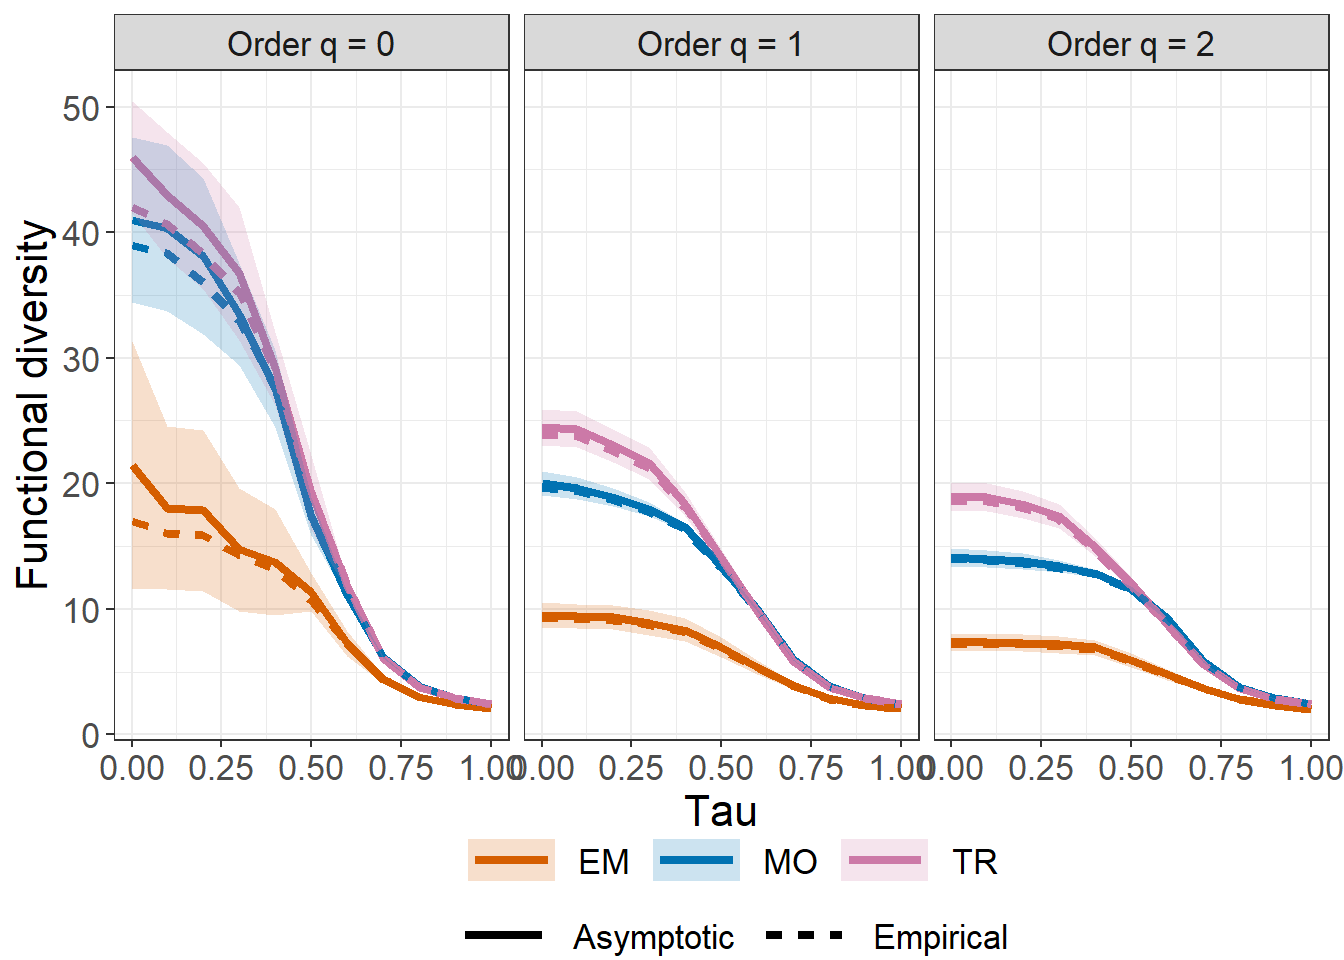
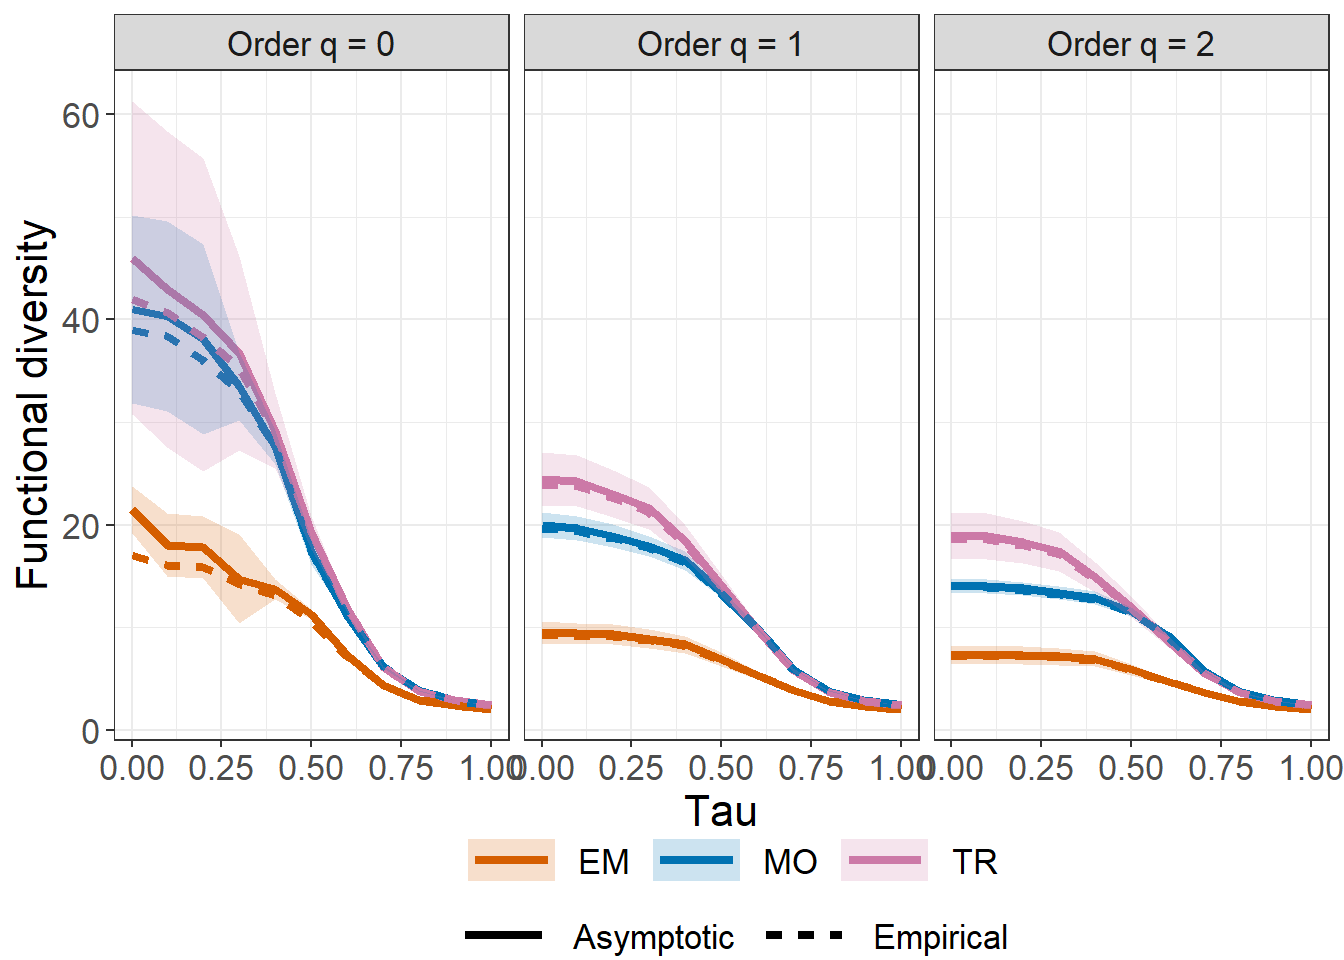
Update README.

diff --git a/README.md b/README.md
@@ -21,9 +21,10 @@ diversity) is an R package, available in
 of species diversity (Hill numbers) for three dimensions. Here we
 provide a quick introduction demonstrating how to run iNEXT.3D, and
 showing three types of sampling curves. See Chao et al. (2021) for
-methodologies. An online version of iNEXT.3D Online is also available
-for users without an R background. Detailed information about all
-functions in iNEXT.3D is provided in the iNEXT.3D Manual in
+methodologies. An online version of iNEXT.3D Online [iNEXT_3D
+Online](https://chao.shinyapps.io/iNEXT_3D/) is also available for users
+without an R background. Detailed information about all functions in
+iNEXT.3D is provided in the iNEXT.3D Manual in
 [iNEXT.3D_vignettes](http://chao.stat.nthu.edu.tw/wordpress/wp-content/uploads/software/A%20Quick%20Introduction%20to%20iNEXT.3D%20via%20Examples.html),which
 is available from [Anne Chao’s
 website](http://chao.stat.nthu.edu.tw/wordpress/software_download/).
@@ -367,16 +368,16 @@ $size_based (LCL and UCL are obtained for fixed size.)
 # A tibble: 45 x 10
    Assemblage     m Method        Order.q    qD qD.LCL qD.UCL    SC SC.LCL SC.UCL
    <chr>      <dbl> <chr>           <dbl> <dbl>  <dbl>  <dbl> <dbl>  <dbl>  <dbl>
- 1 EM             1 Rarefaction         0  1      1      1    0.136  0.125  0.147
- 2 EM           196 Rarefaction         0 15.2   13.8   16.7  0.987  0.979  0.995
- 3 EM           373 Observed            0 17     14.5   19.5  0.992  0.985  0.999
- 4 EM           550 Extrapolation       0 18.2   14.8   21.6  0.994  0.988  1    
- 5 EM           746 Extrapolation       0 19.2   15.0   23.4  0.996  0.991  1    
- 6 EM             1 Rarefaction         1  1      1      1    0.136  0.125  0.147
- 7 EM           196 Rarefaction         1  9.07   8.39   9.75 0.987  0.979  0.995
- 8 EM           373 Observed            1  9.27   8.56   9.99 0.992  0.985  0.999
- 9 EM           550 Extrapolation       1  9.37   8.63  10.1  0.994  0.988  1    
-10 EM           746 Extrapolation       1  9.43   8.69  10.2  0.996  0.991  1    
+ 1 EM             1 Rarefaction         0  1      1.00    1   0.136  0.116  0.156
+ 2 EM           196 Rarefaction         0 15.2   14.1    16.4 0.987  0.978  0.996
+ 3 EM           373 Observed            0 17     14.8    19.2 0.992  0.983  1    
+ 4 EM           550 Extrapolation       0 18.2   15.1    21.4 0.994  0.986  1    
+ 5 EM           746 Extrapolation       0 19.2   14.9    23.5 0.996  0.989  1    
+ 6 EM             1 Rarefaction         1  1      1       1   0.136  0.116  0.156
+ 7 EM           196 Rarefaction         1  9.07   7.90   10.2 0.987  0.978  0.996
+ 8 EM           373 Observed            1  9.27   8.09   10.5 0.992  0.983  1    
+ 9 EM           550 Extrapolation       1  9.37   8.18   10.6 0.994  0.986  1    
+10 EM           746 Extrapolation       1  9.43   8.24   10.6 0.996  0.989  1    
 # ... with 35 more rows
 # i Use `print(n = ...)` to see more rows
 
@@ -387,16 +388,16 @@ $coverage_based (LCL and UCL are obtained for fixed coverage; interval length is
 # A tibble: 45 x 8
    Assemblage    SC     m Method        Order.q    qD qD.LCL qD.UCL
    <chr>      <dbl> <dbl> <chr>           <dbl> <dbl>  <dbl>  <dbl>
- 1 EM         0.136    1  Rarefaction         0  1     0.973   1.03
- 2 EM         0.987  196. Rarefaction         0 15.2  11.5    18.9 
- 3 EM         0.992  373  Observed            0 17    12.4    21.6 
- 4 EM         0.994  550. Extrapolation       0 18.2  13.2    23.3 
- 5 EM         0.996  746. Extrapolation       0 19.2  13.8    24.6 
- 6 EM         0.136    1  Rarefaction         1  1     0.974   1.03
- 7 EM         0.987  196. Rarefaction         1  9.07  8.27    9.86
- 8 EM         0.992  373  Observed            1  9.27  8.49   10.1 
- 9 EM         0.994  550. Extrapolation       1  9.37  8.59   10.1 
-10 EM         0.996  746. Extrapolation       1  9.43  8.66   10.2 
+ 1 EM         0.136    1  Rarefaction         0  1     0.921   1.08
+ 2 EM         0.987  196. Rarefaction         0 15.2  10.8    19.6 
+ 3 EM         0.992  373  Observed            0 17    10.1    23.9 
+ 4 EM         0.994  550. Extrapolation       0 18.2  10.1    26.3 
+ 5 EM         0.996  746. Extrapolation       0 19.2  10.1    28.3 
+ 6 EM         0.136    1  Rarefaction         1  1     0.925   1.08
+ 7 EM         0.987  196. Rarefaction         1  9.07  8.01   10.1 
+ 8 EM         0.992  373  Observed            1  9.27  8.18   10.4 
+ 9 EM         0.994  550. Extrapolation       1  9.37  8.25   10.5 
+10 EM         0.996  746. Extrapolation       1  9.43  8.30   10.6 
 # ... with 35 more rows
 # i Use `print(n = ...)` to see more rows
 
@@ -404,15 +405,15 @@ NOTE: The above output only shows five estimates for each assemblage; call iNEXT
 
 AsyEst: asymptotic diversity estimates along with related statistics.
   Assemblage         Diversity  Observed Estimator      s.e.       LCL       UCL
-1         EM  Species richness 17.000000 21.487936 3.6321292 17.000000 28.606778
-2         EM Shannon diversity  9.272102  9.541765 0.3569320  8.842191 10.241339
-3         EM Simpson diversity  7.218106  7.340810 0.3511763  6.652518  8.029103
-4         MO  Species richness 39.000000 40.998658 2.5772122 39.000000 46.049901
-5         MO Shannon diversity 19.712107 19.987465 0.3521758 19.297213 20.677717
-6         MO Simpson diversity 13.979950 14.102888 0.3865942 13.345178 14.860599
-7         TR  Species richness 42.000000 45.996223 8.6404703 42.000000 62.931234
-8         TR Shannon diversity 23.941938 24.481173 0.5920044 23.320866 25.641481
-9         TR Simpson diversity 18.605455 18.920295 0.4892438 17.961394 19.879195
+1         EM  Species richness 17.000000 21.487936 6.8438443 17.000000 34.901624
+2         EM Shannon diversity  9.272102  9.541765 0.3229302  8.908834 10.174697
+3         EM Simpson diversity  7.218106  7.340810 0.1667320  7.014022  7.667599
+4         MO  Species richness 39.000000 40.998658 5.7377525 39.000000 52.244446
+5         MO Shannon diversity 19.712107 19.987465 0.3207481 19.358811 20.616120
+6         MO Simpson diversity 13.979950 14.102888 0.3429921 13.430636 14.775141
+7         TR  Species richness 42.000000 45.996223 6.2099948 42.000000 58.167589
+8         TR Shannon diversity 23.941938 24.481173 0.6085377 23.288461 25.673885
+9         TR Simpson diversity 18.605455 18.920295 0.6984230 17.551411 20.289178
 ```
 
 The second data frame of list $iNextEst (as shown below for
@@ -597,15 +598,15 @@ indicated in the method of the output.
 ``` r
 estimate3D(dunes$data, diversity = 'TD', q = c(0,1,2), datatype = "abundance", base = "coverage",level = 0.93)
   Assemblage   SC         m      Method Order.q        qD      s.e.    qD.LCL    qD.UCL
-1         EM 0.93  47.88966 Rarefaction       0 11.194508 0.6206547  9.978047 12.410969
-2         EM 0.93  47.88966 Rarefaction       1  8.004329 0.3867576  7.246298  8.762360
-3         EM 0.93  47.88966 Rarefaction       2  6.482469 0.3128096  5.869373  7.095564
-4         MO 0.93 107.56810 Rarefaction       0 24.830302 0.6756662 23.506021 26.154584
-5         MO 0.93 107.56810 Rarefaction       1 16.735683 0.3868194 15.977531 17.493835
-6         MO 0.93 107.56810 Rarefaction       2 12.571520 0.3603800 11.865189 13.277852
-7         TR 0.93 114.37603 Rarefaction       0 27.935556 0.8746709 26.221233 29.649880
-8         TR 0.93 114.37603 Rarefaction       1 20.360646 0.5987815 19.187056 21.534236
-9         TR 0.93 114.37603 Rarefaction       2 16.357398 0.5028173 15.371894 17.342902
+1         EM 0.93  47.88966 Rarefaction       0 11.194508 0.5576521 10.101530 12.287486
+2         EM 0.93  47.88966 Rarefaction       1  8.004329 0.3630917  7.292682  8.715976
+3         EM 0.93  47.88966 Rarefaction       2  6.482469 0.3017298  5.891089  7.073849
+4         MO 0.93 107.56810 Rarefaction       0 24.830302 0.6786476 23.500177 26.160427
+5         MO 0.93 107.56810 Rarefaction       1 16.735683 0.4398505 15.873591 17.597774
+6         MO 0.93 107.56810 Rarefaction       2 12.571520 0.4051718 11.777398 13.365643
+7         TR 0.93 114.37603 Rarefaction       0 27.935556 0.8515544 26.266540 29.604572
+8         TR 0.93 114.37603 Rarefaction       1 20.360646 0.5490569 19.284514 21.436778
+9         TR 0.93 114.37603 Rarefaction       2 16.357398 0.4897403 15.397525 17.317271
 ```
 
 ### EMPIRICAL AND ASYMPTOTIC DIVERSITY FUNCTION: AO3D
@@ -630,72 +631,72 @@ out1 <- AO3D(dunes$data, diversity = 'TD', datatype = "abundance", method = c("A
 
 out1
    Order.q        qD      s.e.    qD.LCL    qD.UCL Assemblage     Method
-1      0.0 21.487936 2.8762792 15.850532 27.125339         EM Asymptotic
-2      0.2 16.936433 1.4046941 14.183283 19.689583         EM Asymptotic
-3      0.4 13.885407 0.7100604 12.493714 15.277099         EM Asymptotic
-4      0.6 11.862781 0.5112327 10.860783 12.864779         EM Asymptotic
-5      0.8 10.496859 0.4840794  9.548081 11.445638         EM Asymptotic
-6      1.0  9.541765 0.4721045  8.616457 10.467073         EM Asymptotic
-7      1.2  8.847719 0.4539566  7.957980  9.737457         EM Asymptotic
-8      1.4  8.325449 0.4337147  7.475383  9.175514         EM Asymptotic
-9      1.6  7.920890 0.4150786  7.107351  8.734429         EM Asymptotic
-10     1.8  7.600095 0.3994859  6.817117  8.383073         EM Asymptotic
-11     2.0  7.340810 0.3870961  6.582116  8.099505         EM Asymptotic
-12     0.0 40.998658 4.2987148 32.573331 49.423984         MO Asymptotic
-13     0.2 34.209437 1.7611972 30.757554 37.661320         MO Asymptotic
-14     0.4 29.060182 0.6074646 27.869573 30.250791         MO Asymptotic
-15     0.6 25.175831 0.2948930 24.597852 25.753811         MO Asymptotic
-16     0.8 22.235885 0.3473397 21.555112 22.916659         MO Asymptotic
-17     1.0 19.987465 0.3881110 19.226782 20.748149         MO Asymptotic
-18     1.2 18.241913 0.3994499 17.459006 19.024821         MO Asymptotic
-19     1.4 16.863382 0.3983186 16.082691 17.644072         MO Asymptotic
-20     1.6 15.755819 0.3929329 14.985684 16.525953         MO Asymptotic
-21     1.8 14.851614 0.3861981 14.094680 15.608549         MO Asymptotic
-22     2.0 14.102888 0.3789341 13.360191 14.845586         MO Asymptotic
-23     0.0 45.996223 4.4810622 37.213502 54.778943         TR Asymptotic
-24     0.2 38.731480 1.8739322 35.058640 42.404319         TR Asymptotic
-25     0.4 33.399637 0.6065589 32.210804 34.588471         TR Asymptotic
-26     0.6 29.505773 0.2948804 28.927818 30.083728         TR Asymptotic
-27     0.8 26.635682 0.3882502 25.874725 27.396638         TR Asymptotic
-28     1.0 24.481173 0.4310114 23.636407 25.325940         TR Asymptotic
-29     1.2 22.827199 0.4395817 21.965635 23.688763         TR Asymptotic
-30     1.4 21.527891 0.4432190 20.659198 22.396585         TR Asymptotic
-31     1.6 20.484834 0.4517666 19.599387 21.370280         TR Asymptotic
-32     1.8 19.631065 0.4658101 18.718093 20.544036         TR Asymptotic
-33     2.0 18.920295 0.4833648 17.972917 19.867672         TR Asymptotic
-34     0.0 17.000000 1.1401754 14.765297 19.234703         EM  Empirical
-35     0.2 14.471457 0.9322456 12.644289 16.298625         EM  Empirical
-36     0.4 12.567736 0.7633898 11.071519 14.063952         EM  Empirical
-37     0.6 11.145510 0.6331091  9.904639 12.386381         EM  Empirical
-38     0.8 10.079552 0.5363058  9.028412 11.130692         EM  Empirical
-39     1.0  9.272102 0.4651532  8.360418 10.183785         EM  Empirical
-40     1.2  8.651511 0.4122250  7.843565  9.459457         EM  Empirical
-41     1.4  8.166818 0.3719357  7.437837  8.895799         EM  Empirical
-42     1.6  7.782094 0.3405161  7.114695  8.449493         EM  Empirical
-43     1.8  7.471913 0.3154948  6.853555  8.090272         EM  Empirical
-44     2.0  7.218106 0.2952230  6.639480  7.796733         EM  Empirical
-45     0.0 39.000000 1.0000000 37.040036 40.959964         MO  Empirical
-46     0.2 32.970780 0.6690511 31.659464 34.282096         MO  Empirical
-47     0.4 28.269000 0.6562457 26.982782 29.555218         MO  Empirical
-48     0.6 24.647500 0.6382357 23.396580 25.898419         MO  Empirical
-49     0.8 21.864493 0.5718477 20.743692 22.985294         MO  Empirical
-50     1.0 19.712107 0.4823141 18.766789 20.657425         MO  Empirical
-51     1.2 18.026804 0.3907581 17.260932 18.792675         MO  Empirical
-52     1.4 16.686924 0.3080180 16.083220 17.290629         MO  Empirical
-53     1.6 15.604656 0.2384134 15.137374 16.071937         MO  Empirical
-54     1.8 14.717297 0.1832094 14.358214 15.076381         MO  Empirical
-55     2.0 13.979950 0.1426557 13.700350 14.259550         MO  Empirical
-56     0.0 42.000000 0.8366600 40.360176 43.639824         TR  Empirical
-57     0.2 36.253363 0.9406666 34.409690 38.097036         TR  Empirical
-58     0.4 31.844736 0.9740287 29.935675 33.753797         TR  Empirical
-59     0.6 28.487492 0.9574087 26.611005 30.363978         TR  Empirical
-60     0.8 25.922807 0.9228223 24.114109 27.731506         TR  Empirical
-61     1.0 23.941938 0.8888194 22.199884 25.683992         TR  Empirical
-62     1.2 22.387845 0.8625567 20.697264 24.078425         TR  Empirical
-63     1.4 21.146894 0.8450341 19.490658 22.803131         TR  Empirical
-64     1.6 20.138290 0.8348239 18.502065 21.774515         TR  Empirical
-65     1.8 19.304760 0.8300008 17.677988 20.931532         TR  Empirical
-66     2.0 18.605455 0.8288988 16.980843 20.230067         TR  Empirical
+1      0.0 21.487936 4.9090774 11.866321 31.109551         EM Asymptotic
+2      0.2 16.936433 2.5464122 11.945557 21.927309         EM Asymptotic
+3      0.4 13.885407 1.2403970 11.454273 16.316540         EM Asymptotic
+4      0.6 11.862781 0.6003011 10.686212 13.039349         EM Asymptotic
+5      0.8 10.496859 0.3426670  9.825244 11.168474         EM Asymptotic
+6      1.0  9.541765 0.2901776  8.973027 10.110503         EM Asymptotic
+7      1.2  8.847719 0.3041198  8.251655  9.443783         EM Asymptotic
+8      1.4  8.325449 0.3244605  7.689518  8.961380         EM Asymptotic
+9      1.6  7.920890 0.3400539  7.254397  8.587383         EM Asymptotic
+10     1.8  7.600095 0.3511550  6.911844  8.288346         EM Asymptotic
+11     2.0  7.340810 0.3594169  6.636366  8.045255         EM Asymptotic
+12     0.0 40.998658 6.4829942 28.292223 53.705093         MO Asymptotic
+13     0.2 34.209437 2.9918042 28.345608 40.073265         MO Asymptotic
+14     0.4 29.060182 1.3437455 26.426489 31.693875         MO Asymptotic
+15     0.6 25.175831 0.6083235 23.983539 26.368124         MO Asymptotic
+16     0.8 22.235885 0.2941871 21.659289 22.812481         MO Asymptotic
+17     1.0 19.987465 0.2010122 19.593489 20.381442         MO Asymptotic
+18     1.2 18.241913 0.2221500 17.806507 18.677319         MO Asymptotic
+19     1.4 16.863382 0.2711936 16.331852 17.394911         MO Asymptotic
+20     1.6 15.755819 0.3191527 15.130291 16.381346         MO Asymptotic
+21     1.8 14.851614 0.3601141 14.145804 15.557425         MO Asymptotic
+22     2.0 14.102888 0.3931734 13.332283 14.873494         MO Asymptotic
+23     0.0 45.996223 7.4731581 31.349102 60.643344         TR Asymptotic
+24     0.2 38.731480 3.9445849 31.000236 46.462724         TR Asymptotic
+25     0.4 33.399637 2.0681452 29.346147 37.453127         TR Asymptotic
+26     0.6 29.505773 1.1940859 27.165408 31.846138         TR Asymptotic
+27     0.8 26.635682 0.8602168 24.949688 28.321676         TR Asymptotic
+28     1.0 24.481173 0.7602774 22.991057 25.971290         TR Asymptotic
+29     1.2 22.827199 0.7357087 21.385236 24.269161         TR Asymptotic
+30     1.4 21.527891 0.7302930 20.096543 22.959239         TR Asymptotic
+31     1.6 20.484834 0.7276974 19.058573 21.911094         TR Asymptotic
+32     1.8 19.631065 0.7233268 18.213370 21.048759         TR Asymptotic
+33     2.0 18.920295 0.7160548 17.516853 20.323736         TR Asymptotic
+34     0.0 17.000000 0.8366600 15.360176 18.639824         EM  Empirical
+35     0.2 14.471457 0.5819063 13.330942 15.611972         EM  Empirical
+36     0.4 12.567736 0.4126783 11.758901 13.376570         EM  Empirical
+37     0.6 11.145510 0.3151381 10.527850 11.763169         EM  Empirical
+38     0.8 10.079552 0.2737538  9.543005 10.616100         EM  Empirical
+39     1.0  9.272102 0.2649524  8.752805  9.791399         EM  Empirical
+40     1.2  8.651511 0.2683346  8.125585  9.177437         EM  Empirical
+41     1.4  8.166818 0.2737369  7.630304  8.703333         EM  Empirical
+42     1.6  7.782094 0.2779337  7.237354  8.326834         EM  Empirical
+43     1.8  7.471913 0.2805493  6.922047  8.021780         EM  Empirical
+44     2.0  7.218106 0.2820395  6.665319  7.770894         EM  Empirical
+45     0.0 39.000000 1.0954451 36.852967 41.147033         MO  Empirical
+46     0.2 32.970780 0.6144240 31.766531 34.175029         MO  Empirical
+47     0.4 28.269000 0.3299614 27.622287 28.915712         MO  Empirical
+48     0.6 24.647500 0.2012987 24.252961 25.042038         MO  Empirical
+49     0.8 21.864493 0.1856694 21.500587 22.228398         MO  Empirical
+50     1.0 19.712107 0.2099955 19.300523 20.123691         MO  Empirical
+51     1.2 18.026804 0.2358648 17.564517 18.489090         MO  Empirical
+52     1.4 16.686924 0.2563250 16.184537 17.189312         MO  Empirical
+53     1.6 15.604656 0.2717131 15.072108 16.137204         MO  Empirical
+54     1.8 14.717297 0.2831714 14.162292 15.272303         MO  Empirical
+55     2.0 13.979950 0.2916043 13.408416 14.551484         MO  Empirical
+56     0.0 42.000000 1.6733201 38.720353 45.279647         TR  Empirical
+57     0.2 36.253363 1.3618992 33.584090 38.922637         TR  Empirical
+58     0.4 31.844736 1.1064754 29.676084 34.013388         TR  Empirical
+59     0.6 28.487492 0.8848701 26.753178 30.221805         TR  Empirical
+60     0.8 25.922807 0.6985845 24.553607 27.292008         TR  Empirical
+61     1.0 23.941938 0.5504717 22.863033 25.020843         TR  Empirical
+62     1.2 22.387845 0.4400210 21.525419 23.250270         TR  Empirical
+63     1.4 21.146894 0.3640477 20.433374 21.860415         TR  Empirical
+64     1.6 20.138290 0.3174819 19.516037 20.760543         TR  Empirical
+65     1.8 19.304760 0.2937249 18.729070 19.880450         TR  Empirical
+66     2.0 18.605455 0.2856194 18.045651 19.165259         TR  Empirical
 ```
 
 ### GRAPHIC DISPLAYS FUNCTION: ggAO3D()
@@ -747,7 +748,13 @@ ggAO3D(out3, profile = "tau")
 
 <img src="README/README-unnamed-chunk-19-1.png" width="672" style="display: block; margin: auto;" />
 
-## \#\#\# How to cite
+### How to cite
+
+-   Chao, A., Henderson, P. A., Chiu, C.-H., Moyes, F., Hu, K.-H.,
+    Dornelas, M and Magurran, A. E. (2021). Measuring temporal change in
+    alpha diversity: a framework integrating taxonomic, phylogenetic and
+    functional diversity and the iNEXT.3D standardization. Methods in
+    Ecology and Evolution, 12, 1926-1940.
 
 ### Referance
 
